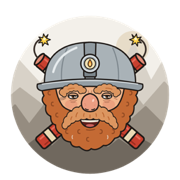
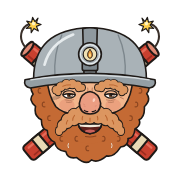
Drop the mountains from the badge
The badge is now the miner and his crossed dynamite on a transparent
background, so he sits on the page colour in both themes. The favicon,
touch icon and share image are rendered again from it; the touch icon
and share image stay on white, since iOS fills a transparent touch icon
with black.

diff --git a/src/styles/global.css b/src/styles/global.css
@@ -3,8 +3,8 @@
 @import "@fontsource-variable/jetbrains-mono/wght.css";
 
 /*
-  Stone and cinnabar. The neutrals are warm rock greys, matched to the
-  badge's mountain range, and cinnabar marks what Otherlode finds. "Ink"
+  Stone and cinnabar. The neutrals are warm rock greys, and cinnabar
+  marks what Otherlode finds. "Ink"
   draws the borders and shadows of the boxes. "Ground" is the dark band
   under the ridge.
 */
